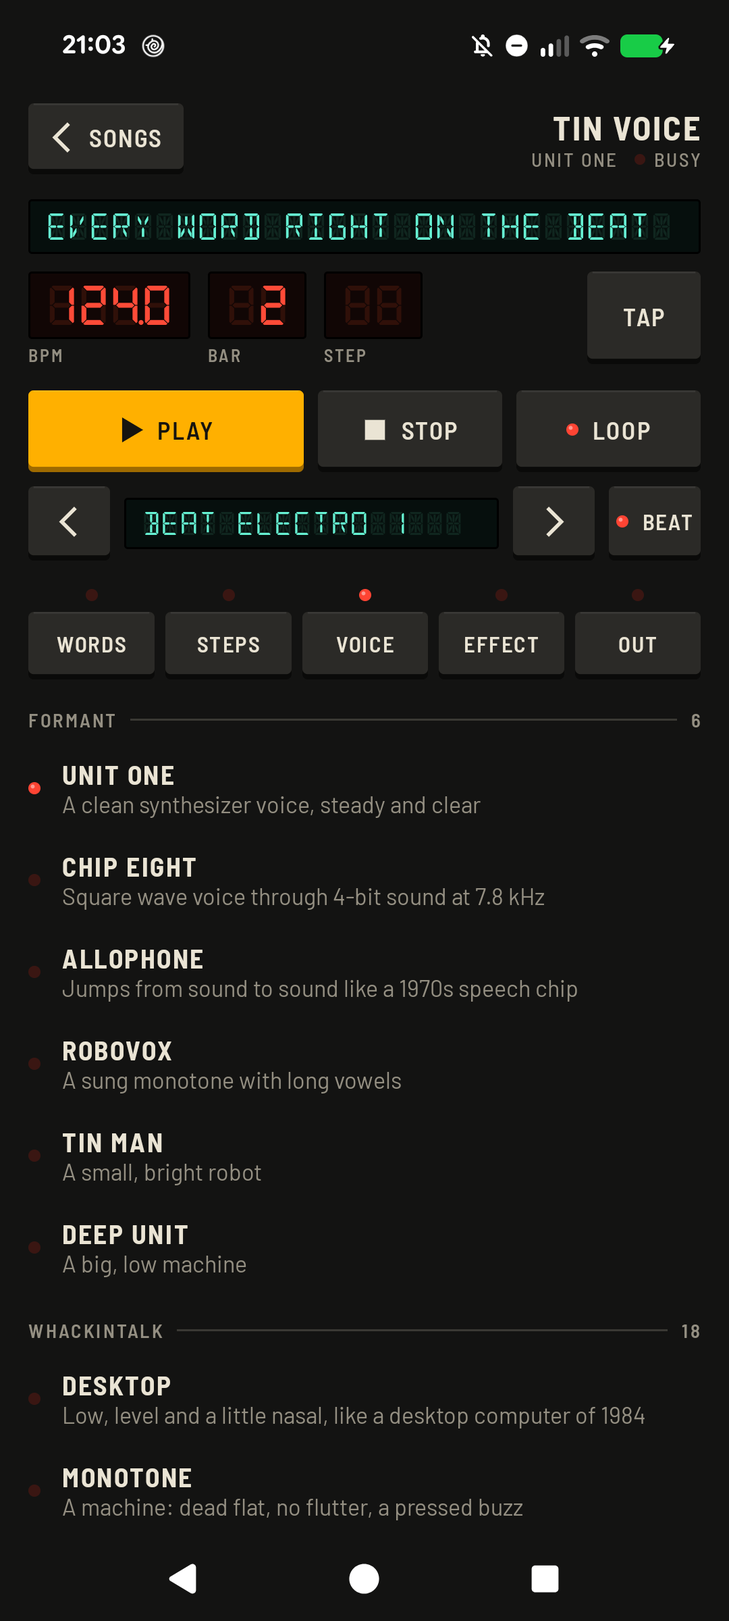
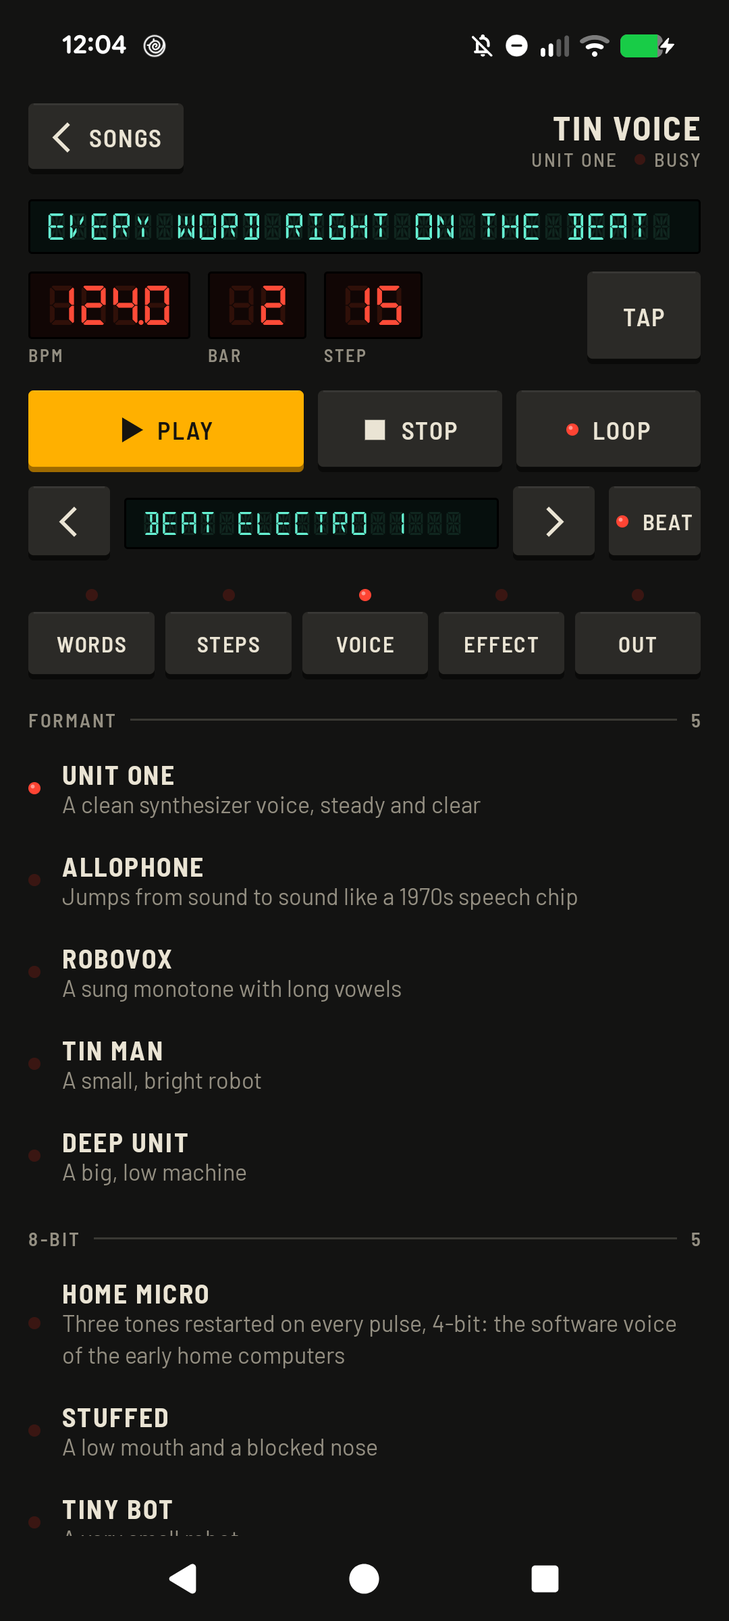
Docs and store: 49 voices from six engines
README, the manual's VOICE topic, the plan and the store listing (English and Dutch) now count 49 voices: five formant characters, five home computer voices, eighteen retro voices, kal, SPELLER and nineteen eSpeak NG voices. The store screenshot of the voice page is new, taken from a temporary song, and shows the 8-BIT group; its caption reads "49 robot voices, from 8-bit computers to speech chips".

Two research notes record where the new voices come from. Report 10: no version of S.A.M. may be shipped, the "SAM" modes of other synths carry its tables, and the home computer engine follows only the public description of the method. Report 11: no ready-made voice in the Speak & Spell sound is usable, MAME's TMC0281 tables and synthesis are BSD-3-Clause, and how SPELLER encodes kal for the chip. Report 01 no longer carries a detail of S.A.M. that is known only from its code.

diff --git a/app/src/main/java/nl/lloydstellar/robotvocal/ui/ManualScreen.kt b/app/src/main/java/nl/lloydstellar/robotvocal/ui/ManualScreen.kt
@@ -30,8 +30,9 @@ private val TOPICS = listOf(
         "The vowel of every syllable starts exactly on its step; the consonants before it start a little earlier, so the word " +
         "sounds on the beat. Tap a step to see its syllable, then move it EARLIER or LATER: the rest of the line stays where it is. " +
         "REFLOW lets the flow place the line again. The number of bars sets how much room a line gets."),
-    Topic("VOICE", "44 voices from four speech engines: our own formant voices, the retro voices of whackintalk (talking " +
-        "computers of the mid-1980s; some of them sing a tune over your notes), the kal voice of Flite and the voices of eSpeak NG. " +
+    Topic("VOICE", "49 voices from six speech engines: our own formant voices, home computer voices that speak the way the " +
+        "software of 1982 did, the retro voices of whackintalk (talking computers of the mid-1980s; some of them sing a tune over " +
+        "your notes), the kal voice of Flite, SPELLER on the speech chip of a 1978 talking toy, and the voices of eSpeak NG. " +
         "The pitch sets the note the voice speaks on, and the note the vocoders and talkboxes sing."),
     Topic("EFFECT", "Twenty robot effects: vocoders after the hardware of the late 1970s, talkboxes, a speech chip at 8 kHz, ring " +
         "modulation, combs, phasers, gates in 16ths. Effects that move, move in bars, so they stay in time."),

diff --git a/tools/make_store_graphics.py b/tools/make_store_graphics.py
@@ -25,7 +25,7 @@ SCREENS = [
     ("01-steps.png", "Every syllable on a step of the beat"),
     ("02-words.png", "Type your lyrics, pick a flow"),
     ("04-effect.png", "Vocoders, talkboxes and delays on the beat"),
-    ("03-voice.png", "44 robot voices, from talking computers to 8-bit chips"),
+    ("03-voice.png", "49 robot voices, from 8-bit computers to speech chips"),
     ("05-out.png", "Save a WAV that loops, or send it to Ableton Live"),
     ("07-songs.png", "Your songs stay on your phone"),
     ("06-intro.png", "Free, without an account or ads"),

diff --git a/docs/PLAN.md b/docs/PLAN.md
@@ -9,7 +9,7 @@ neural voices, which this app leaves out.
 
 Steps 1 to 5, 7 and 9 are built and on GitHub; steps 6 and 8 are partly done.
 
-- Built: the front panel look, lyrics to syllables, eleven flows with the placement algorithm, sample-exact timing with the vowel on the beat, 44 voices (six formant characters, eighteen retro voices ported from whackintalk, Flite kal, nineteen eSpeak NG voices), 21 robot effects plus movement and space effects (delays on the beat, echo throws, plates, ping-pong, a wide chorus, auto-pan, tape stops, reverse swells), a note and a stutter per syllable, example beats, WAV export in mono or stereo, Send to Live with LA2L, About, Manual, icon, store graphics and a signed release build.
+- Built: the front panel look, lyrics to syllables, eleven flows with the placement algorithm, sample-exact timing with the vowel on the beat, 49 voices (five formant characters, five home computer voices, eighteen retro voices ported from whackintalk, Flite kal, SPELLER on an emulated TMS5100, nineteen eSpeak NG voices), 21 robot effects plus movement and space effects (delays on the beat, echo throws, plates, ping-pong, a wide chorus, auto-pan, tape stops, reverse swells), a note and a stutter per syllable, example beats, WAV export in mono or stereo, Send to Live with LA2L, About, Manual, icon, store graphics and a signed release build.
 - Changed on the way: the effects are written in Kotlin instead of C++ (offline rendering is fast enough, and every effect is tested on the JVM). The retro voices keep whackintalk's synthesizer, phoneme table and voice settings, under names of our own; tempo and pitch come from the song, so its speaking rates and intonation are left out.
 - Still open: the ClusterGen voices of Flite (slt, rms, awb need a patch for exact durations), the other candidates of section 3.2 and a chord track.
 
@@ -48,11 +48,12 @@ ships named combinations, and the user can combine any voice with any effect.
 | Flite, voices kal and kal16 | The classic 1990s diphone robot, 8 and 16 kHz | Exact: our own durations and pitch go in through `duration_model_func` and `f0_model_func` (tested in report 01) | BSD-style, voices free for commercial use |
 | Flite, CMU ARCTIC voices slt, rms, awb, bdl, clb, jmk, ksp | Seven buzzy statistical voices, male and female, some accented | Exact, same hooks | BSD-style |
 | eSpeak NG, a curated set of its 104 variants (robosoft 1 to 8, klatt 1 to 6, whisper, croak and others) | Sharp formant voices, very robotic, very clear | The engine reports phoneme onsets but takes no durations, so each word is rendered and then placed and stretched (section 6.4) | GPL-3.0-or-later |
-| Our own formant synth | A Klatt synthesizer with our own phoneme tables, in several characters: clean unit, 8-bit chip, coarse 1970s allophone steps, sung monotone in the spirit of Kraftwerk's Robovox | Exact: we compute every frame | Ours (GPL); based on klatt-syn (MIT) and the Holmes tables of rsynth (GPL) |
+| Our own formant synth | A Klatt synthesizer with our own phoneme tables, in several characters: clean unit, coarse 1970s allophone steps, sung monotone in the spirit of Kraftwerk's Robovox | Exact: we compute every frame | Ours (GPL); based on klatt-syn (MIT) and the Holmes tables of rsynth (GPL) |
+| Home computer voices (our own) | Five voices made the way the software speech of 1982 was made: three oscillators at the formants (two sines and a square), restarted on every pulse, 4-bit levels and output, 1-bit hiss. Mouth and throat knobs as on those programs | Exact: the retro engine's track with our start and end per phoneme; the step clock is set per note, so periods are whole steps and notes stay in tune | Ours. The method follows the public description of S.A.M. (report 10); its tables come from the retro engine, not from S.A.M. |
 | whackintalk, ported to Kotlin | Eighteen voices after the talking computers of the mid-1980s: one Klatt synthesizer with the KLGLOTT88 source, from a flat machine to a whisper, seven of them singing a tune | Exact: every phoneme becomes elements with our start and end, with a new frame every millisecond | MIT |
-| LPC chip voice | The sound of the Speak & Spell: any voice above re-encoded into 10-pole LPC frames at 8 kHz with chirp excitation and 4 to 5 bit coefficients, played through a TMS5220-style lattice | Exact, 25 ms frames with pitch per frame | MAME tables (BSD-3), our own encoder. No Texas Instruments word data |
+| Speech chip voice (SPELLER) | The sound of the 1978 Speak & Spell: Flite's kal encoded into frames for the TMS5100 (TMC0281) and spoken by a port of MAME's emulation of it, with the chip's tables, integer lattice, chirp, interpolation rules and 8-bit output | Exact: a frame starts at every phoneme and lasts at most 25 ms; the chip's clock is set per note so notes are in tune (report 11) | MAME (BSD-3), our own encoder, kal (BSD-style). No Texas Instruments word data |
 
-That gives around 40 distinct base voices before effects.
+That gives 49 base voices before effects.
 
 ### 3.2 Candidates for later versions
 
@@ -65,7 +66,7 @@ That gives around 40 distinct base voices before effects.
 
 | Left out | Reason |
 |---|---|
-| S.A.M. (sam-js and C ports) | No licence; SoftVoice, Inc. still sells it. Our formant synth gets a clean-room "8-bit chip" character instead |
+| S.A.M. (sam-js, the C port and every "SAM mode" in other software) | No licence, and SoftVoice, Inc. never released it; the "SAM" modes of other synths carry its tables. The home computer voices follow its publicly described method with tables of our own (report 10) |
 | DECtalk | Proprietary licence |
 | Original chip ROM data (Votrax, SP0256, TI word lists) | Copyrighted data |
 | SVOX Pico | Output length differs per run on 64-bit; DMCA notice on parts of the code |
@@ -275,7 +276,7 @@ From report 09:
 - The AI-generated content policy does not apply: no generative models. The user-generated content policy does not apply: nothing is shared between users.
 - Privacy policy page on lloydstellar.nl, written for this app (it goes online for LA2L, unlike the other apps).
 - Assets: icon 512 x 512, feature graphic 1024 x 500, at least four 1080 x 1920 screenshots with the real interface filling most of the frame, and a 20 to 30 second video, because a listing cannot play sound otherwise.
-- App icon: three drafts to choose from, all built from real parts and drawn with a script in `tools/`: a speaker grille face with a lit band meter for a mouth, a single 14-segment display character, and ten vocoder bands forming a face.
+- App icon: an electro robot head in profile, tilted back, singing a beam of sound out of the frame: flat shapes on the red of the first step key, drawn by `tools/make_icon.py`. It replaced a first icon (two lamps over band levels) that looked like a voice assistant.
 - The store package as for Spin Doctor: `tools/store/listing.md`, `privacy.html`, `LEESMIJ.txt` with the Play Console steps, graphics, screenshots, signed AAB.
 
 ## 19. Steps
@@ -289,7 +290,7 @@ Each step ends with a commit, a build on the Pixel 8 and something Lloyd can hea
 5. **Robot effects.** The C++ effect engine, the twenty presets, pitch modes, chord track.
 6. **Step grid editing.** Move, stretch, rest, lock, stutter, accent, notes per step, feel and gate.
 7. **Ableton Live.** LA2L pairing and sending, tested with the test receiver and in Live.
-8. **More voices.** LPC chip voice, then candidates from 3.2 after their licence check.
+8. **More voices.** Home computer voices and the speech chip voice (done), then candidates from 3.2 after their licence check.
 9. **Release.** Icon drafts, manual, about and licences, store graphics and screenshots, privacy policy, signed AAB, 16 KB check, internal test track.
 
 ## 20. Risks and open points

diff --git a/docs/research/10-home-computer-voice.md b/docs/research/10-home-computer-voice.md
@@ -1,0 +1,54 @@
+# 10. A S.A.M. voice we may ship
+
+Research for Robot Vocal: a second search for a voice that sounds like S.A.M. (Software Automatic Mouth, Don't Ask Software, 1982, on the Commodore 64, Atari and Apple II), after the first formant attempt (CHIP EIGHT, a square wave through a 4-bit crusher) did not sound like it. Researched 2026-10-19.
+
+Licence rule from Lloyd: only explicit licences that allow commercial use and fit GPL-3.0; nothing without a licence, nothing non-commercial. Tables count as much as code.
+
+## 1. Key findings
+
+- **S.A.M. was never released.** The 1982 manual asks for "the express written permission of DON'T ASK, Inc." and forbids translating it. Nothing from SoftVoice, Inc. (the current owner) or from Mark Barton, its author, grants anything; not in the 34 issues of the C port, not in Barton's 2020 interview, not on text2speech.com. SoftVoice does answer mail: in 2017 it allowed personal, non-commercial use of its Windows engine to one person, which shows how it handles requests.
+- **Every "SAM mode" carries S.A.M.'s data.** Mutable Instruments Braids, Shruthi-1, Ambika and Plaits use S.A.M.'s vowel rows (8 of Braids' 17 rows are S.A.M. rows number for number); the author's note says "This is an implementation of SAM." The same holds for the SAM modules and packages for VCV Rack, Surge, Godot, Unity, Rust, Go, npm, micro:bit and Arduino: they wrap the unlicensed port or its tables, sometimes under a GPL or MIT label that cannot cover it.
+- **No clean-room version exists.** Speako8 (MIT) and klattsch (MIT) are clean, but they are Klatt-style synthesizers that only remind of S.A.M. narrator-ts (MIT) is a transcription of SoftVoice's Amiga narrator code, so it is out as well.
+- **The method is free.** Copyright covers code and tables, not methods (17 U.S.C. 102(b); Directive 2009/24/EC, art. 1(2)). A renderer of our own, written from the public description below with tables of our own, can be shipped. The name cannot: the manual calls Software Automatic Mouth a trademark of Don't Ask Inc.
+- **Why CHIP EIGHT sounded wrong.** S.A.M. has no filters. Three oscillators sit on the formants and restart on every pitch period; that restart is the buzz, and the square on F3 gives a hard top that no resonator makes. A smooth Klatt voice crushed afterwards keeps the Klatt spectrum and only gains noise.
+
+## 2. The public description
+
+| What | Source and words |
+|---|---|
+| Three generators, summed | README of the C port: "A = A1 * sin ( f1 * t ) + A2 * sin ( f2 * t ) + A3 * rect( f3 * t ) where rect is a rectangular function with the same periodicity like sin." |
+| Pitch by restarting them | SAM2600 README: "resetting the DDS counters every pitch period produces a nice f0 buzz with very little CPU time." Emilie Gillet's tech note describes the same reset. |
+| 16 levels | README comments on the 6502 loop: "load sine value (high 4 bits)", "get amplitude (in low 4 bits)", "multiplication table". |
+| 4-bit output | README: "get highest 4 bits" into the SID's volume register; Wikipedia on the C64's 4-bit volume DAC; the Atari manual on its sound register. |
+| Rate | Not published. A loop of about 26 instructions on a 1 MHz 6502 points to a few kHz, around 7 kHz (inferred). |
+| Hiss | README: "it seems that it uses some noise (e. g. for "s") using a table with random values." |
+| Mouth and throat | Manual: knobs that "adjust the size of S.A.M.'s throat and his mouth", 128 normal, six preset voices. |
+| Vowels | SoftVoice's own formant page lists rounded Peterson and Barney (1952) values: beet 270, 2300, 3000; boot 300, 870, 2250 and so on. |
+
+## 3. What the app does with it
+
+The home computer engine (`voice/retro/MicroSynth.kt`, `MicroEngine.kt`) is written from section 2 and the literature:
+
+- Two sines on F1 and F2 and a square on F3, restarted on every pulse; 16 levels for each oscillator, a 4-bit sine and a 4-bit output, 1-bit noise for the hiss; a step rate of about 7350 a second, each step held.
+- Formants, transitions and timing from the retro engine's phoneme table (whackintalk, MIT, itself based on Klatt), not from S.A.M. The level of each oscillator is the Klatt cascade's gain at that formant, with the range in dB halved; the hiss follows the table's frication and breath levels the same way. Voiced fricatives follow Klatt (1980): the hiss rides on the voice.
+- Every period is a whole number of steps, with the step clock set per note, so notes are in tune and the grit stays harmonic.
+- Mouth moves F1 and throat the higher formants, after what they follow in phonetics (mouth opening and tract length). Five voices under names of our own.
+
+Measured: F1 and F2 of AA, UW, AE and IH within 20 and 15 % of the table; notes at 98, 220 and 392 Hz within 0.3 %; s and sh at about -7 dB from the vowel, z at -10 dB, and f, th and h at one 4-bit step, about -17 dB.
+
+## 4. Open
+
+- SoftVoice could be asked for written permission to use S.A.M.'s own tables under terms that fit GPL-3.0. Any ordinary commercial licence would not fit, because eSpeak NG is in the same app. Contact: info@text2speech.com. Lloyd decides.
+- The Atari version had gaps in the sound whenever the screen's DMA ran ("lights on"); a gravelly preset could imitate that.
+
+## Sources
+
+- s-macke/SAM README, https://github.com/s-macke/SAM (read for its description only; the code has no licence)
+- S.A.M. manual, Don't Ask Software, 1982
+- rossumur/SAM2600 README, https://github.com/rossumur/SAM2600
+- Emilie Gillet, Speech synthesis algorithms, https://pichenettes.github.io/mutable-instruments-documentation/tech_notes/speech_synthesis_algorithms/
+- SoftVoice formant page, http://www.text2speech.com/formant.html
+- Mark Barton interview, Cherry Audio, 2020-07-23
+- Joseph Katz (SoftVoice) to the NVDA list, 2017, https://nvda.groups.io/g/nvda/topic/softvoice_information_request/5170758
+- G. E. Peterson and H. L. Barney, Control methods used in a study of the vowels, JASA 24(2), 1952
+- D. H. Klatt, Software for a cascade/parallel formant synthesizer, JASA 67(3), 1980

diff --git a/docs/research/11-speech-chip-voice.md b/docs/research/11-speech-chip-voice.md
@@ -1,0 +1,48 @@
+# 11. The Speak & Spell as a voice
+
+Research for Robot Vocal: can the sound of the 1978 Speak & Spell be a voice of its own, speaking any lyric, rather than an effect on another voice? Researched 2026-10-19.
+
+Licence rule from Lloyd: only explicit licences that allow commercial use and fit GPL-3.0. Texas Instruments' word data is someone else's copyright unless a grant is found.
+
+## 1. Key findings
+
+- **Nothing ready-made can be used.** Every project that speaks text in a TI chip sound runs on data nobody may reuse: the toy's word ROMs, the TI-99/4A vocabulary and the Terminal Emulator II allophones (WORM), Street Electronics' Textalker ROM (Echo II), or TI and Acorn vocabularies copied into Talkie. Talkie's code itself is "GPLv2" without "or later". Plaits (MIT code) ships "LPC10 encoded words extracted from various TI ROMs" and words made from a macOS voice; its 15 phoneme frames have no stated source.
+- **The chip can be copied exactly.** MAME's `tms5110.cpp` and `tms5110r.hxx` are BSD-3-Clause and hold the TMC0281 (the Speak & Spell's TMS5100) table set, checked against decapped chips and TI's patents: energy, pitch, ten reflection coefficient tables, the chirp and the interpolation shifts, plus a sample-level model of the synthesis.
+- **The voice has to be ours.** The toy's voice was one radio announcer, recorded word by word, encoded and then hand-edited until it sounded right (Richard Wiggins: "a substantial amount of hand editing was used"). The way to get any text in that sound is to encode a free recorded male voice into the chip's frames. Flite's kal, already in the app, is a recorded US male voice at the chip's own 8 kHz.
+- **Pitch and music clash.** The TMC0281 has 31 pitch periods between 52 and 195 Hz, 59 to 102 cents apart, so its own steps put notes up to half a semitone off.
+
+## 2. The chip (TMC0281, from MAME)
+
+- 8 kHz, a frame every 25 ms (200 samples), eight interpolation steps of 25 samples with shifts 3, 3, 3, 2, 2, 1, 1 and then the target itself.
+- Frames: energy (4 bits, 0 silence, 15 stop), pitch (5 bits, 0 unvoiced), K1 and K2 (5 bits), K3 to K7 (4 bits), K8 to K10 (3 bits). Unvoiced frames carry K1 to K4 only; K5 to K10 are zero.
+- Interpolation is held when the voicing changes and after silence; then the new values come at once.
+- The source is the chirp (41 non-zero samples of a 52-entry table) at every pitch period, or noise: plus or minus 64 from a 13-bit shift register stepped 20 times a sample.
+- A ten-stage lattice in integer arithmetic: coefficients of 10 bits, values of 15 bits, products shifted down 9; energy enters at the top.
+- Output: the lattice's value clipped to 12 bits, of which the top 8 reach the DAC and the speaker. The loudest sounds clip hard.
+
+## 3. What the app does with it
+
+SPELLER (`voice/chip/`) renders the lyric with kal on a steady 100 Hz, encodes it, and speaks it through a Kotlin port of MAME's synthesis with the TMC0281 tables.
+
+- **Frames follow the phonemes.** A frame starts where every phoneme starts and lasts at most 25 ms, so vowels start on their step as with the other voices. Voicing comes from the phoneme, pitch from the song; nothing is guessed.
+- **In tune.** The chip's clock is set per note so that a period is a whole number of samples (110 Hz is 73 samples at 8030 a second). Every period is then the same, as on the chip at its own pitches, and the formants move by a percent or two at most.
+- **Formants kept.** Each frame is analysed with ten-pole LPC and every coefficient goes to the nearest entry of the chip's tables. Voiced frames are analysed with the chirp's spectrum divided out (an idea from speakie, Apache-2.0 or MIT) and a mild lift of the highs (0.7). Measured over ten vowels on the retro engine's DESKTOP: F1 within 8 % and F2 within 3 % on average, where the usual strong lift (0.94) lost the low F1 of the i in "beat" and dividing out the chirp alone pushed U and I to the edges of the tables.
+- **Loudness.** The energy code is found by running the frame's own filter on its own source; the loudest vowels just touch the chip's clipping.
+
+## 4. Open
+
+- An option to sing on the chip's own 31 pitch steps, for those who want it out of tune on purpose.
+- A deeper announcer voice: CMU ARCTIC rms (free for commercial use, "subject to the pretty light restrictions") encoded offline, or a recording of our own. Both are new data sources; Lloyd decides.
+- The SPELLING CHIP effect could move to the same exact chip, so "any voice through the chip" sounds like this voice does.
+- The name Speak & Spell is TI's; it stays out of the app and the store listing.
+
+## Sources
+
+- MAME, src/devices/sound/tms5110.cpp, tms5110r.hxx and src/mame/ti/snspell.cpp at commit 7e7a99f, https://github.com/mamedev/mame (BSD-3-Clause)
+- Texas Instruments, MOS Integrated Circuits for Voice Synthesis, June 1980, TMS5100 section
+- US patent 4,209,836
+- Richard Wiggins interview, Vintage Computing and Gaming, 2008, https://www.vintagecomputing.com/?p=528
+- Adafruit, Bringing back the voice of Speak & Spell, https://learn.adafruit.com/bringing-back-the-voice-of-speak-spell
+- python_wizard (MIT), https://github.com/ptwz/python_wizard; BlueWizard (MIT), https://github.com/patrick99e99/BlueWizard; speakie (Apache-2.0 or MIT), https://github.com/raphlinus/speakie
+- Emilie Gillet, Plaits source and tech note (MIT), https://github.com/pichenettes/eurorack
+- Flite and cmu_us_kal, https://github.com/festvox/flite; CMU ARCTIC, http://festvox.org/cmu_arctic/

diff --git a/README.md b/README.md
@@ -23,7 +23,7 @@ send to Live.
 1. **Words.** Lyrics become syllables with stress: CMUdict for 126,052 words, the NRL rules of 1976 for the rest, numbers and initialisms read the way rappers say them. A word in brackets sets its own syllables: `[ro-BOT]`.
 2. **Flow.** Eleven flows put the syllables in slots, from robot 8ths and one word per beat to triplets and half-time trap. The placement weighs where rappers put stressed syllables (the MCFlow corpus), rests at punctuation and the rhyme on beat four. Every syllable can be moved by hand.
 3. **On the beat.** The vowel of every syllable starts exactly on its step; the consonants before it start a little earlier, so the word is heard on the beat. Frames are computed from the absolute position, so nothing drifts.
-4. **Voices.** 44 voices from four engines: our own Klatt formant synthesizer (six characters, from clean to a 4-bit chip), eighteen retro voices ported from [whackintalk](https://github.com/joehahndev/whackintalk) (talking computers of the mid-1980s, seven of which sing a tune over your notes), Flite's kal diphone voice, and nineteen voices of eSpeak NG. Flite, the formant and the retro voices take our durations directly; eSpeak NG is rendered per word and only the middle of each vowel is stretched.
+4. **Voices.** 49 voices from six engines: our own Klatt formant synthesizer (five characters, from clean to a 1970s allophone chip); five home computer voices of our own, made the way the software speech of 1982 was made (three tones restarted on every pulse, 4-bit); eighteen retro voices ported from [whackintalk](https://github.com/joehahndev/whackintalk) (talking computers of the mid-1980s, seven of which sing a tune over your notes); Flite's kal diphone voice; SPELLER, kal encoded for the speech chip of a 1978 talking spelling toy and spoken by an emulation of that chip ported from MAME; and nineteen voices of eSpeak NG. All but eSpeak NG take our durations directly; eSpeak NG is rendered per word and only the middle of each vowel is stretched.
 5. **Effects.** Twenty robot effects (vocoders, talkboxes, a speech chip at 8 kHz, ring modulation and more), movement (ensemble, filter sweeps, beat repeat) and space (delays on the beat, an echo throw on line ends, plates).
 6. **Out.** WAV at 48 kHz, mono or (with a stereo effect) stereo, 24-bit, 16-bit or 32-bit float, exactly a whole number of bars with an `acid` tempo chunk, plus a dry stem if you want. Send to Live puts it on a new track, warped to the Set's tempo.
 
@@ -56,7 +56,7 @@ adb reverse tcp:41234 tcp:41234
 The unit tests run on the JVM against the real lexicon: syllables and stress,
 numbers, the placement of every flow, the grid maths against LA2L's frame
 formula, vowel formants measured with LPC, the hiss of s and sh, notes in tune
-to a few cents, every effect
+to a few cents, the 16 levels of a 4-bit voice, every effect
 for range, silence and exact repeats, and delays that land on the beat to the
 sample. Their WAV output goes to `tools/audio/` (not in git) to check by ear.
 
@@ -67,7 +67,7 @@ sample. Their WAV output goes to `tools/audio/` (not in git) to check by ear.
 | `app/src/main/java/.../text` | normaliser, lexicon, letter-to-sound, syllables, lyrics |
 | `app/src/main/java/.../score` | ticks, flow presets, the placement algorithm, the song model |
 | `app/src/main/java/.../render` | timing planner (vowel on the beat), arranger, renderer, loop fold |
-| `app/src/main/java/.../voice` | the formant engine, the retro engine, Flite, eSpeak NG and the voice list |
+| `app/src/main/java/.../voice` | the formant, home computer, retro and speech chip engines, Flite, eSpeak NG and the voice list |
 | `app/src/main/java/.../dsp` | vocoder, talkbox, speech chip, delays, plates and the other effects |
 | `app/src/main/java/.../beats` | the drum synthesizer and the example beats (preview only) |
 | `app/src/main/java/.../export` | WAV writer, saving and sharing, Send to Live |

diff --git a/tools/store/listing.md b/tools/store/listing.md
@@ -22,7 +22,7 @@ Robot Vocal turns typed lyrics into a robot rapping on your beat. Every syllable
 
 Type your lines and pick a flow: robot 8ths, one word per beat, triplets, half-time trap, boom bap with swing, rapid 16ths and more. Each flow places the syllables the way rappers do: stressed syllables on the strong steps, rests at commas, the rhyme on beat four. Move any syllable earlier or later on a step grid like a drum machine's.
 
-Pick one of 44 voices from four kinds of speech synthesis made in the app itself: formant voices from clean to 4-bit chip, talking computers of the mid-1980s (some of them sing a tune over your notes), the diphone voice of 1990s speech software, and the robot and Klatt voices of eSpeak NG. Then put an effect on it: twenty-band vocoders that sing your chosen note, talkboxes, a speech chip at 8 kHz, ring modulation, combs, phasers, a gate in 16ths. Add a delay on the beat, an echo on the last word of every line, or a plate.
+Pick one of 49 voices from six kinds of speech synthesis made in the app itself: formant voices from clean to 1970s chip, home computer voices that speak the way the software of 1982 did, talking computers of the mid-1980s (some of them sing a tune over your notes), the diphone voice of 1990s speech software, a voice on the speech chip of a 1978 talking spelling toy, and the robot and Klatt voices of eSpeak NG. Then put an effect on it: twenty-band vocoders that sing your chosen note, talkboxes, a speech chip at 8 kHz, ring modulation, combs, phasers, a gate in 16ths. Add a delay on the beat, an echo on the last word of every line, or a plate.
 
 Check the timing against an example beat: electro, Miami bass, boom bap, half-time, house, techno or a click. The beat is for listening only and never ends up in a file.
 
@@ -47,7 +47,7 @@ Robot Vocal maakt van getypte tekst een robot die op jouw beat rapt. Elke letter
 
 Typ je regels en kies een flow: robot-8sten, één woord per tel, triolen, half-time trap, boom bap met swing, snelle 16den en meer. Elke flow zet de lettergrepen zoals rappers dat doen: beklemtoonde lettergrepen op de sterke stappen, een rust bij een komma, het rijm op tel vier. Elke lettergreep schuif je met de hand een stap op of terug, op een rij stappen zoals op een drumcomputer.
 
-Kies een van 44 stemmen uit vier soorten spraaksynthese die de app zelf maakt: formantstemmen van strak tot 4-bit chip, pratende computers uit het midden van de jaren 80 (een paar zingen een melodie over jouw noten), de difoonstem van spraaksoftware uit de jaren 90 en de robot- en Klatt-stemmen van eSpeak NG. Zet er dan een effect op: vocoders met twintig banden die op jouw noot zingen, talkboxes, een spraakchip op 8 kHz, ringmodulatie, kamfilters, phasers, een gate in 16den. Voeg een delay op de beat toe, een echo op het laatste woord van elke regel, of een plate.
+Kies een van 49 stemmen uit zes soorten spraaksynthese die de app zelf maakt: formantstemmen van strak tot jaren-70-chip, homecomputerstemmen die praten zoals de software van 1982, pratende computers uit het midden van de jaren 80 (een paar zingen een melodie over jouw noten), de difoonstem van spraaksoftware uit de jaren 90, een stem op de spraakchip van een pratende spellingcomputer uit 1978 en de robot- en Klatt-stemmen van eSpeak NG. Zet er dan een effect op: vocoders met twintig banden die op jouw noot zingen, talkboxes, een spraakchip op 8 kHz, ringmodulatie, kamfilters, phasers, een gate in 16den. Voeg een delay op de beat toe, een echo op het laatste woord van elke regel, of een plate.
 
 Controleer de timing op een voorbeeldbeat: electro, Miami bass, boom bap, half-time, house, techno of een klik. De beat is alleen om mee te luisteren en komt nooit in een bestand.
 

diff --git a/docs/research/01-retro-speech-engines.md b/docs/research/01-retro-speech-engines.md
@@ -44,7 +44,7 @@ Beat-grid method: for engines with duration input (2 to 10) compute each phoneme
 - **hts_engine** with ARCTIC slt: time-stamped labels with phoneme alignment put word boundaries exactly at 0.25, 0.75, 1.25, 1.75 and 2.25 s; writing 110 Hz into the lf0 stream gave 109.3/110.1/110.6 Hz. 48 kHz, 5 ms frames.
 - **rsynth**: a `.pho` asking for 1300 ms rendered 1.297 s; `+E` traces element durations (`W.79 U.299 N.119 ...`); `+M` holds F0 fixed. 11025 Hz default, 22050 Hz with `-r`. Built with `-fcommon -std=gnu89` and relaxed GCC 16 errors.
 - **Gnuspeech SA**: built with one g++ command (no CMake); 44100 Hz; `-p` writes 16 parameters every 4 ms (pitch, glottal and fricative values, eight tube radii, velum); `gnuspeech_sa_trm` re-rendered a file with a flattened pitch column.
-- **S.A.M. C port** (studied, not shippable): 8-bit 22050 Hz; `-debug` prints per-phoneme lengths in frames; a frame is `speed` × 3.24 samples, about 10.6 ms at the default speed 72.
+- **S.A.M. C port** (not shippable, no licence): 8-bit output at 22050 Hz; `-debug` prints per-phoneme lengths in frames. Report 10 has what may be used from its public description.
 - **narrator-ts**: free voice, 22030 Hz 8-bit; `mode: 1` held about 108 to 116 Hz where mode 0 fell from 116 to 75 Hz.
 - **SVOX Pico** ([naggety/picotts](https://github.com/naggety/picotts)): four runs of the same sentence gave 0.464, 1.648, 0.476 and 2.504 s on x86-64. Unusable as built.
 
